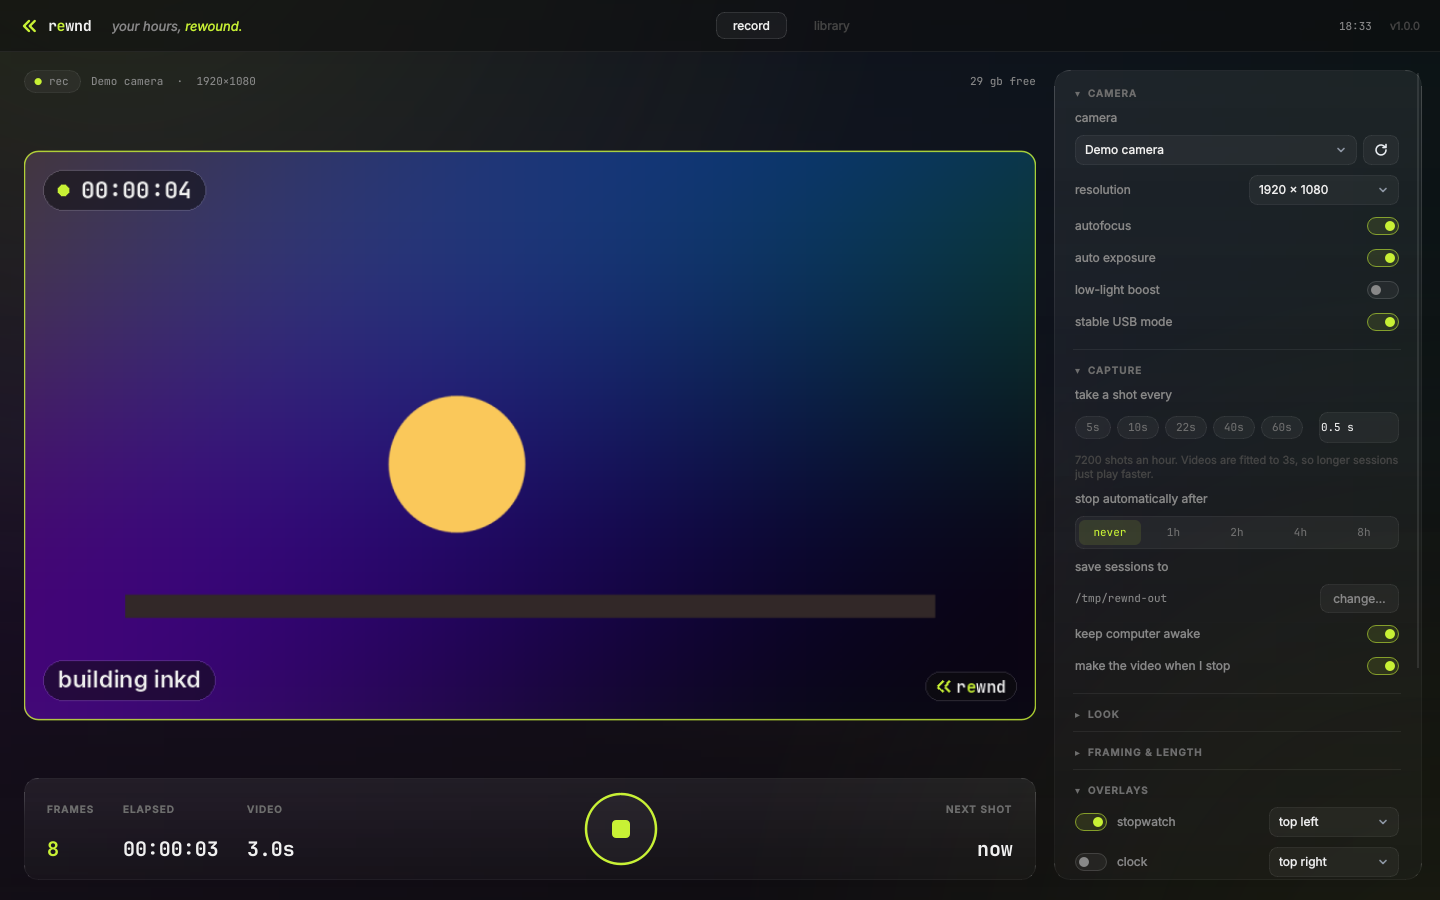
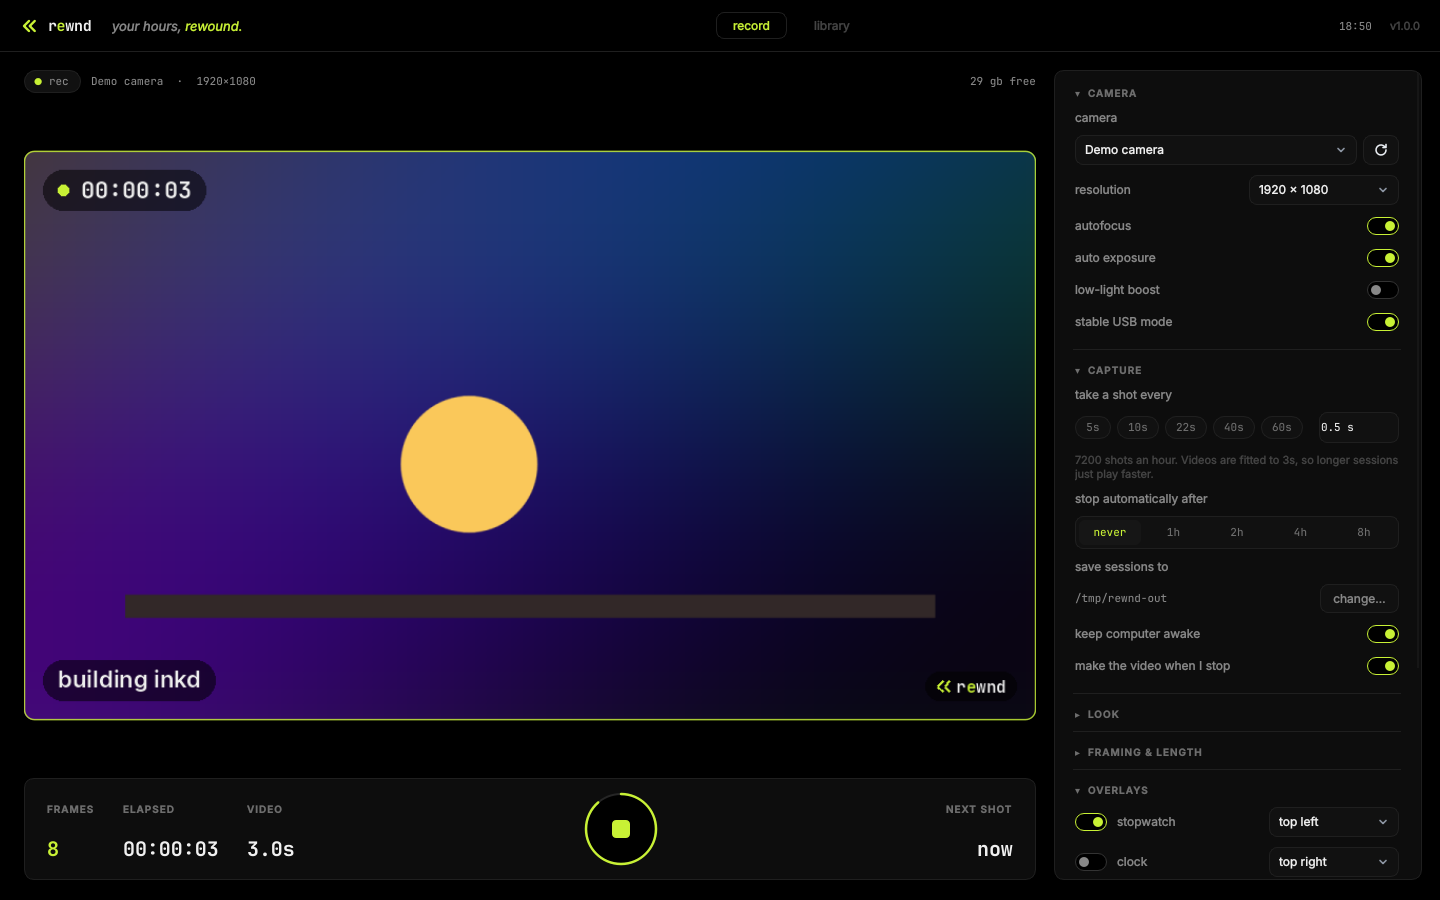
Flatten the UI: deep black and lime, no gradients
- Pure black window, solid #0D0D0D panels, single #1F1F1F hairlines
- Removed the blurred camera backdrop, lime glows, translucent fills
  and gradient borders
- Lime primary buttons and active tab; flat toggles and record button
- Flat overlay pills in exported videos

Claude-Session: https://claude.ai/code/session_01UKX3EcZaaBm3meAoRfQhpa

diff --git a/rewnd/ui/theme.py b/rewnd/ui/theme.py
@@ -7,10 +7,10 @@ from pathlib import Path
 from PySide6.QtGui import QColor, QFontDatabase
 
 # klokd tokens
-BASE = "#0D0D0D"
-SURFACE = "#1A1A1A"
-RAISED = "#2A2A2A"
-BORDER = "#2A2A2A"
+BASE = "#000000"       # deep black
+SURFACE = "#0D0D0D"    # panels (klokd base)
+RAISED = "#161616"
+BORDER = "#1F1F1F"
 TEXT = "#F0F0F0"
 TEXT_2 = "#888888"
 TEXT_3 = "#444444"
@@ -61,18 +61,18 @@ def wordmark_html(size=15):
             f' letter-spacing:-0.3px;">r<span style="color:{ACCENT};">e</span>wnd</span>')
 
 
-# Dark glass: translucent fill, brighter top edge fading down the sides.
-GLASS_FILL = "qlineargradient(x1:0, y1:0, x2:0, y2:1, stop:0 rgba(255,255,255,0.070), stop:1 rgba(255,255,255,0.025))"
-GLASS_EDGE = "qlineargradient(x1:0, y1:0, x2:0, y2:1, stop:0 rgba(255,255,255,0.20), stop:0.35 rgba(255,255,255,0.07), stop:1 rgba(255,255,255,0.04))"
-GLASS_FIELD = "rgba(255,255,255,0.045)"
-HAIRLINE = "rgba(255,255,255,0.07)"
+# Flat and solid: no gradients, no translucency.
+GLASS_FILL = SURFACE
+GLASS_EDGE = BORDER
+GLASS_FIELD = "#111111"
+HAIRLINE = BORDER
 
 
 def stylesheet(accent=ACCENT):
     chevron = (ICON_DIR / "chevron-down.svg").as_posix()
     a = QColor(accent)
-    lime_soft = f"rgba({a.red()},{a.green()},{a.blue()},0.11)"
-    lime_edge = f"rgba({a.red()},{a.green()},{a.blue()},0.45)"
+    lime_soft = RAISED
+    lime_edge = accent
     return f"""
 * {{
     font-family: "{UI_FONT}", "Inter";
@@ -95,23 +95,23 @@ QLabel#StatKey {{ font-family: "{MONO}"; font-size: 20px; font-weight: 700; colo
 QLabel#Mono {{ font-family: "{MONO}"; color: {TEXT_2}; font-size: 11px; }}
 QLabel#FieldLabel {{ color: {TEXT_2}; font-size: 12px; }}
 
-QFrame#Toast {{ background: rgba(24,24,24,0.94); border: 1px solid {GLASS_EDGE}; border-radius: 14px; }}
-QFrame#Card, QFrame#Glass {{ background: {GLASS_FILL}; border: 1px solid {GLASS_EDGE}; border-radius: 14px; }}
+QFrame#Toast {{ background: {SURFACE}; border: 1px solid {BORDER}; border-left: 2px solid {accent}; border-radius: 10px; }}
+QFrame#Card, QFrame#Glass {{ background: {SURFACE}; border: 1px solid {BORDER}; border-radius: 10px; }}
 QFrame#Section {{ background: transparent; border: none; border-bottom: 1px solid {HAIRLINE}; border-radius: 0; }}
 QFrame#Divider {{ background: {BORDER}; max-height: 1px; min-height: 1px; border: none; }}
-QFrame#TopBar {{ background: rgba(13,13,13,0.55); border-bottom: 1px solid {HAIRLINE}; }}
-QFrame#SidePanel {{ background: {GLASS_FILL}; border: 1px solid {GLASS_EDGE}; border-radius: 16px; }}
+QFrame#TopBar {{ background: {BASE}; border-bottom: 1px solid {BORDER}; }}
+QFrame#SidePanel {{ background: {SURFACE}; border: 1px solid {BORDER}; border-radius: 10px; }}
 QFrame#StatusPill {{ background: {GLASS_FIELD}; border: 1px solid {HAIRLINE}; border-radius: 11px; }}
 
 QPushButton {{
     background: {GLASS_FIELD}; border: 1px solid {HAIRLINE}; border-radius: 8px;
     padding: 6px 12px; color: {TEXT_2}; font-size: 12px;
 }}
-QPushButton:hover {{ color: {TEXT}; border-color: rgba(255,255,255,0.16); background: rgba(255,255,255,0.07); }}
-QPushButton:pressed {{ background: rgba(255,255,255,0.03); }}
+QPushButton:hover {{ color: {TEXT}; border-color: #333333; background: {RAISED}; }}
+QPushButton:pressed {{ background: {BASE}; }}
 QPushButton:disabled {{ color: {TEXT_3}; }}
-QPushButton#Primary {{ background: {TEXT}; color: {BASE}; border: none; font-weight: 600; }}
-QPushButton#Primary:hover {{ background: #ffffff; }}
+QPushButton#Primary {{ background: {accent}; color: {BASE}; border: none; font-weight: 600; }}
+QPushButton#Primary:hover {{ background: {a.lighter(108).name()}; }}
 QPushButton#Primary:disabled {{ background: {RAISED}; color: {TEXT_3}; }}
 QPushButton#Ghost {{ background: transparent; border: none; color: {TEXT_2}; padding: 5px 8px; }}
 QPushButton#Ghost:hover {{ color: {TEXT}; }}
@@ -120,7 +120,7 @@ QPushButton#Tab {{
     padding: 5px 16px; font-size: 12px;
 }}
 QPushButton#Tab:hover {{ color: {TEXT_2}; background: transparent; border-color: {HAIRLINE}; }}
-QPushButton#Tab:checked {{ color: {TEXT}; background: {GLASS_FIELD}; border-color: rgba(255,255,255,0.12); }}
+QPushButton#Tab:checked {{ color: {accent}; background: {BASE}; border-color: {BORDER}; }}
 QFrame#SegBox {{ background: {GLASS_FIELD}; border: 1px solid {HAIRLINE}; border-radius: 8px; }}
 QPushButton#Seg {{
     background: transparent; border: none; border-radius: 6px; color: {TEXT_DIM};
@@ -133,7 +133,7 @@ QPushButton#Chip {{
     padding: 3px 10px; font-family: "{MONO}"; font-size: 11px; color: {TEXT_DIM};
 }}
 QPushButton#Chip:hover {{ color: {TEXT_2}; }}
-QPushButton#Chip:checked {{ border-color: {lime_edge}; color: {accent}; background: {lime_soft}; }}
+QPushButton#Chip:checked {{ border-color: {accent}; color: {accent}; background: {GLASS_FIELD}; }}
 QPushButton#SectionHeader {{
     background: transparent; border: none; text-align: left; padding: 14px 2px 10px 2px;
     font-size: 10px; font-weight: 600; letter-spacing: 1px; color: {TEXT_DIM};
@@ -145,29 +145,29 @@ QComboBox, QLineEdit, QSpinBox, QDoubleSpinBox {{
     padding: 5px 9px; font-size: 12px; selection-background-color: {RAISED};
 }}
 QSpinBox, QDoubleSpinBox {{ font-family: "{MONO}"; font-size: 11px; }}
-QComboBox:hover, QLineEdit:hover, QSpinBox:hover, QDoubleSpinBox:hover {{ border-color: rgba(255,255,255,0.16); }}
+QComboBox:hover, QLineEdit:hover, QSpinBox:hover, QDoubleSpinBox:hover {{ border-color: #333333; }}
 QComboBox:focus, QLineEdit:focus, QSpinBox:focus, QDoubleSpinBox:focus {{ border-color: {lime_edge}; }}
 QComboBox::drop-down {{ border: none; width: 22px; }}
 QComboBox::down-arrow {{ image: url("{chevron}"); width: 12px; height: 12px; margin-right: 8px; }}
-QComboBox QAbstractItemView {{ background: #161616; border: 1px solid rgba(255,255,255,0.10); border-radius: 8px;
+QComboBox QAbstractItemView {{ background: {SURFACE}; border: 1px solid {BORDER}; border-radius: 8px;
     padding: 4px; selection-background-color: {RAISED}; selection-color: {TEXT}; }}
 QSpinBox::up-button, QSpinBox::down-button, QDoubleSpinBox::up-button, QDoubleSpinBox::down-button {{ width: 0; border: none; }}
 
-QSlider::groove:horizontal {{ height: 2px; background: rgba(255,255,255,0.10); border-radius: 1px; }}
+QSlider::groove:horizontal {{ height: 2px; background: {RAISED}; border-radius: 1px; }}
 QSlider::sub-page:horizontal {{ background: {accent}; border-radius: 1px; }}
 QSlider::handle:horizontal {{ background: {TEXT}; width: 10px; height: 10px; margin: -4px 0; border-radius: 5px; }}
 
-QProgressBar {{ background: rgba(255,255,255,0.08); border: none; border-radius: 2px; height: 4px; color: transparent; }}
+QProgressBar {{ background: {RAISED}; border: none; border-radius: 2px; height: 4px; color: transparent; }}
 QProgressBar::chunk {{ background: {accent}; border-radius: 2px; }}
 
 QScrollBar:vertical {{ background: transparent; width: 6px; margin: 2px; }}
-QScrollBar::handle:vertical {{ background: rgba(255,255,255,0.10); border-radius: 2px; min-height: 30px; }}
+QScrollBar::handle:vertical {{ background: {RAISED}; border-radius: 2px; min-height: 30px; }}
 QScrollBar::add-line, QScrollBar::sub-line, QScrollBar::add-page, QScrollBar::sub-page {{ background: none; height: 0; }}
 QScrollBar:horizontal {{ height: 0; }}
 
 QMessageBox, QInputDialog {{ background: {SURFACE}; }}
-QMenu {{ background: #161616; border: 1px solid rgba(255,255,255,0.10); border-radius: 8px; padding: 4px; }}
+QMenu {{ background: {SURFACE}; border: 1px solid {BORDER}; border-radius: 8px; padding: 4px; }}
 QMenu::item {{ padding: 5px 14px; border-radius: 4px; color: {TEXT_2}; }}
-QMenu::item:selected {{ background: rgba(255,255,255,0.07); color: {TEXT}; }}
+QMenu::item:selected {{ background: {RAISED}; color: {TEXT}; }}
 QMenu::separator {{ height: 1px; background: {BORDER}; margin: 4px 6px; }}
 """

diff --git a/rewnd/ui/widgets.py b/rewnd/ui/widgets.py
@@ -10,43 +10,18 @@ from rewnd.ui import theme
 
 
 class GlassBackdrop(QWidget):
-    """Window background: near-black, a faint lime glow, and optionally a heavily blurred,
-    darkened copy of the live camera feed. The translucent glass panels sit on top of this,
-    which is what makes them read as glass rather than flat grey cards."""
+    """Plain deep-black window background."""
 
     def __init__(self, parent=None):
         super().__init__(parent)
-        self.ambient = None
         self.setAttribute(Qt.WA_StyledBackground, False)
 
-    def set_ambient(self, qimg):
-        self.ambient = qimg
-        self.update()
+    def set_ambient(self, _):
+        pass
 
     def paintEvent(self, e):
-        from PySide6.QtGui import QRadialGradient, QLinearGradient
         p = QPainter(self)
-        p.setClipRegion(e.region())
-        r = QRectF(self.rect())
-        p.fillRect(r, QColor(theme.BASE))
-        if self.ambient is not None and not self.ambient.isNull():
-            p.setRenderHint(QPainter.SmoothPixmapTransform)
-            p.setOpacity(0.38)
-            iw, ih = self.ambient.width(), self.ambient.height()
-            k = max(r.width() / iw, r.height() / ih) * 1.15
-            w, h = iw * k, ih * k
-            p.drawImage(QRectF((r.width() - w) / 2, (r.height() - h) / 2, w, h), self.ambient)
-            p.setOpacity(1.0)
-            fade = QLinearGradient(0, 0, 0, r.height())
-            fade.setColorAt(0.0, theme.qcolor(theme.BASE, 150))
-            fade.setColorAt(0.5, theme.qcolor(theme.BASE, 90))
-            fade.setColorAt(1.0, theme.qcolor(theme.BASE, 190))
-            p.fillRect(r, fade)
-        for cx, cy, rad, alpha in ((0.08, -0.15, 0.55, 26), (1.0, 1.1, 0.5, 16)):
-            g = QRadialGradient(QPointF(r.width() * cx, r.height() * cy), max(r.width(), r.height()) * rad)
-            g.setColorAt(0.0, theme.qcolor(theme.ACCENT, alpha))
-            g.setColorAt(1.0, theme.qcolor(theme.ACCENT, 0))
-            p.fillRect(r, g)
+        p.fillRect(e.rect(), QColor(theme.BASE))
 
 
 def hline():
@@ -126,11 +101,11 @@ class Toggle(QAbstractButton):
         p = QPainter(self)
         p.setRenderHint(QPainter.Antialiasing)
         t = self._pos
-        border = theme.qcolor(self.accent, 150) if t > 0.5 else QColor(255, 255, 255, 40)
+        border = QColor(self.accent) if t > 0.5 else QColor("#333333")
         if not self.isEnabled():
-            border.setAlpha(60)
+            border.setAlpha(80)
         p.setPen(QPen(border, 1))
-        p.setBrush(theme.qcolor(self.accent, 28) if t > 0.5 else QColor(255, 255, 255, 12))
+        p.setBrush(QColor(theme.BASE))
         p.drawRoundedRect(QRectF(0.5, 2.5, 31, 17), 8.5, 8.5)
         p.setPen(Qt.NoPen)
         knob = QColor(self.accent) if t > 0.5 else QColor(theme.TEXT_2)
@@ -323,8 +298,8 @@ class RecordButton(QAbstractButton):
         p = QPainter(self)
         p.setRenderHint(QPainter.Antialiasing)
         r = QRectF(3, 3, 70, 70)
-        p.setPen(QPen(QColor(255, 255, 255, 34), 2))
-        p.setBrush(QColor(255, 255, 255, 10))
+        p.setPen(QPen(QColor("#262626"), 2))
+        p.setBrush(QColor(theme.BASE))
         p.drawEllipse(r)
         lime = QColor(self.accent)
         if self.recording:
@@ -377,9 +352,9 @@ class PreviewView(QWidget):
         p.setRenderHint(QPainter.SmoothPixmapTransform)
         if self.image is None or self.image.isNull():
             r = QRectF(self.rect()).adjusted(1, 1, -1, -1)
-            p.setPen(QPen(QColor(255, 255, 255, 22), 1))
-            p.setBrush(QColor(255, 255, 255, 8))
-            p.drawRoundedRect(r, 14, 14)
+            p.setPen(QPen(QColor(theme.BORDER), 1))
+            p.setBrush(QColor(theme.SURFACE))
+            p.drawRoundedRect(r, 10, 10)
             p.setPen(QColor(theme.TEXT_2))
             f = QFont(theme.MONO, 12)
             p.setFont(f)
@@ -391,7 +366,7 @@ class PreviewView(QWidget):
             return
         r = self.image_rect()
         path = QPainterPath()
-        path.addRoundedRect(r, 14, 14)
+        path.addRoundedRect(r, 10, 10)
         p.setClipPath(path)
         p.drawImage(r, self.image)
         p.setClipping(False)
@@ -399,8 +374,8 @@ class PreviewView(QWidget):
         if self.rec:
             p.setPen(QPen(theme.qcolor(theme.ACCENT, 210), 1.5))
         else:
-            p.setPen(QPen(QColor(255, 255, 255, 30), 1))
-        p.drawRoundedRect(r.adjusted(0.5, 0.5, -0.5, -0.5), 14, 14)
+            p.setPen(QPen(QColor(theme.BORDER), 1))
+        p.drawRoundedRect(r.adjusted(0.5, 0.5, -0.5, -0.5), 10, 10)
         if self.message and self.sub == "overlay":
             p.fillRect(r, QColor(0, 0, 0, 140))
             p.setPen(QColor(theme.TEXT))

diff --git a/rewnd/ui/export_dialog.py b/rewnd/ui/export_dialog.py
@@ -147,6 +147,7 @@ class ExportDialog(QDialog):
         fl.addWidget(self.bar)
         self.result_row = QHBoxLayout()
         self.result_label = label("", "Mono")
+        self.result_label.hide()
         self.result_row.addWidget(self.result_label, 1)
         self.play_btn = QPushButton("play")
         self.show_btn = QPushButton("show in folder")
@@ -217,8 +218,6 @@ class ExportDialog(QDialog):
         img = imaging.render(raw, self.look, self.exp, self.ov, elapsed=elapsed,
                              wall=imaging.wall_time(ts), size=720)
         self.preview.set_image(cv_to_qimage(img))
-        tiny = cv2.resize(img, (48, max(8, int(48 * img.shape[0] / img.shape[1]))), interpolation=cv2.INTER_AREA)
-        self.backdrop.set_ambient(cv_to_qimage(cv2.GaussianBlur(tiny, (0, 0), 2.2)))
         self.frame_label.setText(f"{i + 1} / {len(self.frames)}")
 
     def _save_defaults(self):
@@ -244,6 +243,7 @@ class ExportDialog(QDialog):
         self.play_btn.hide()
         self.show_btn.hide()
         self.result_label.setText("rendering…")
+        self.result_label.show()
         self.export_btn.setText("cancel")
         self.export_btn.setObjectName("")
         self.export_btn.setStyle(self.export_btn.style())

diff --git a/rewnd/ui/record_page.py b/rewnd/ui/record_page.py
@@ -427,12 +427,6 @@ class RecordPage(QWidget):
         except Exception:
             return
         self.preview.set_image(cv_to_qimage(img))
-        now = time.time()
-        if now - self._last_ambient > 0.8:
-            self._last_ambient = now
-            tiny = cv2.resize(img, (48, max(8, int(48 * img.shape[0] / img.shape[1]))), interpolation=cv2.INTER_AREA)
-            tiny = cv2.GaussianBlur(tiny, (0, 0), 2.2)
-            self.ambient_changed.emit(cv_to_qimage(tiny))
 
     def refresh_disk(self):
         free = free_space(self.cfg["capture"]["output_root"])

diff --git a/rewnd/imaging.py b/rewnd/imaging.py
@@ -175,8 +175,7 @@ def _pill(text, kind, px, accent, opacity, dot=False, rewind_icon=False, wordmar
     h = int(px + pad_y * 2)
     im = Image.new("RGBA", (w, h), (0, 0, 0, 0))
     d = ImageDraw.Draw(im)
-    d.rounded_rectangle([0, 0, w - 1, h - 1], radius=h / 2, fill=(13, 13, 13, int(255 * opacity)),
-                        outline=(255, 255, 255, int(40 * min(1.0, opacity * 1.6))), width=max(1, int(px * 0.04)))
+    d.rounded_rectangle([0, 0, w - 1, h - 1], radius=h / 2, fill=(0, 0, 0, int(255 * opacity)))
     x = pad_x
     cy = h / 2
     if dot:

diff --git a/README.md b/README.md
@@ -86,6 +86,6 @@ python -m pytest
 REWND_FAKE_CAMERA=1 python -m rewnd   # run with a demo camera, no webcam needed
 ```
 
-Design follows the klokd / errnd family: near-black glass, JetBrains Mono, lime `#C8F135` accents.
+Design follows the klokd / errnd family: flat deep black, JetBrains Mono, lime `#C8F135` accents.
 
 Fonts: [Inter](https://rsms.me/inter/) and [JetBrains Mono](https://www.jetbrains.com/lp/mono/), both under the SIL Open Font License (see `rewnd/assets/fonts`).
